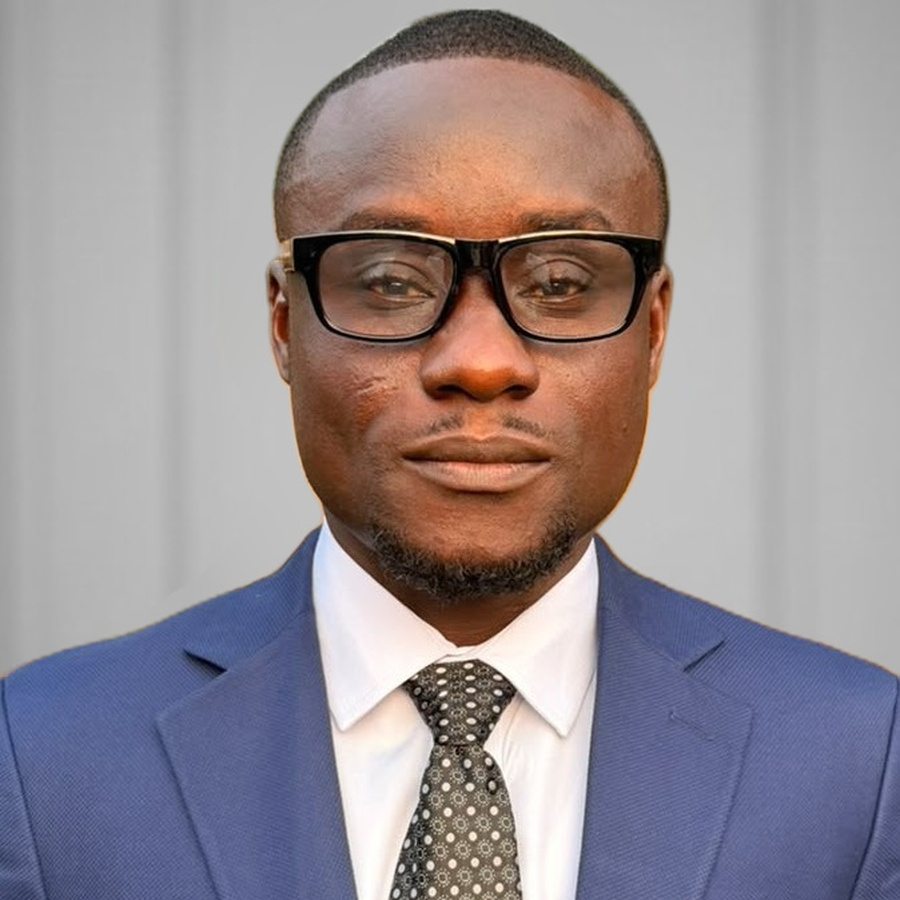
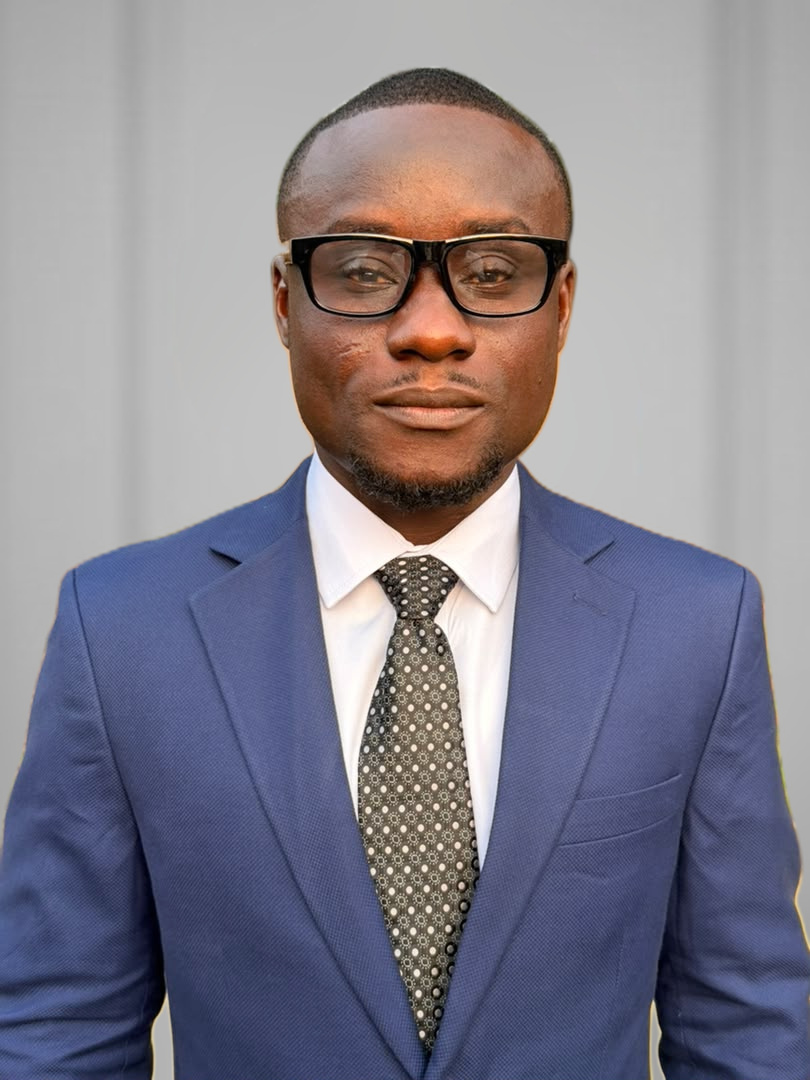
Replace Nana founder headshot with updated studio portrait.

diff --git a/index.html b/index.html
@@ -273,7 +273,7 @@
       <p class="team-label" id="founders">Founders</p>
       <div class="founder-grid">
         <article class="person-card">
-          <img class="person-photo" src="assets/founder-nana.jpg?v=8" alt="Nana Safo Duker" width="760" height="760" loading="lazy" decoding="async">
+          <img class="person-photo" src="assets/founder-nana.jpg?v=9" alt="Nana Safo Duker" width="810" height="1080" loading="lazy" decoding="async">
           <h3>Nana Safo Duker</h3>
           <p class="person-role">Co-Founder &amp; CEO</p>
           <a class="person-link" href="https://nana-safo-duker.github.io/" target="_blank" rel="noopener">Website</a>
